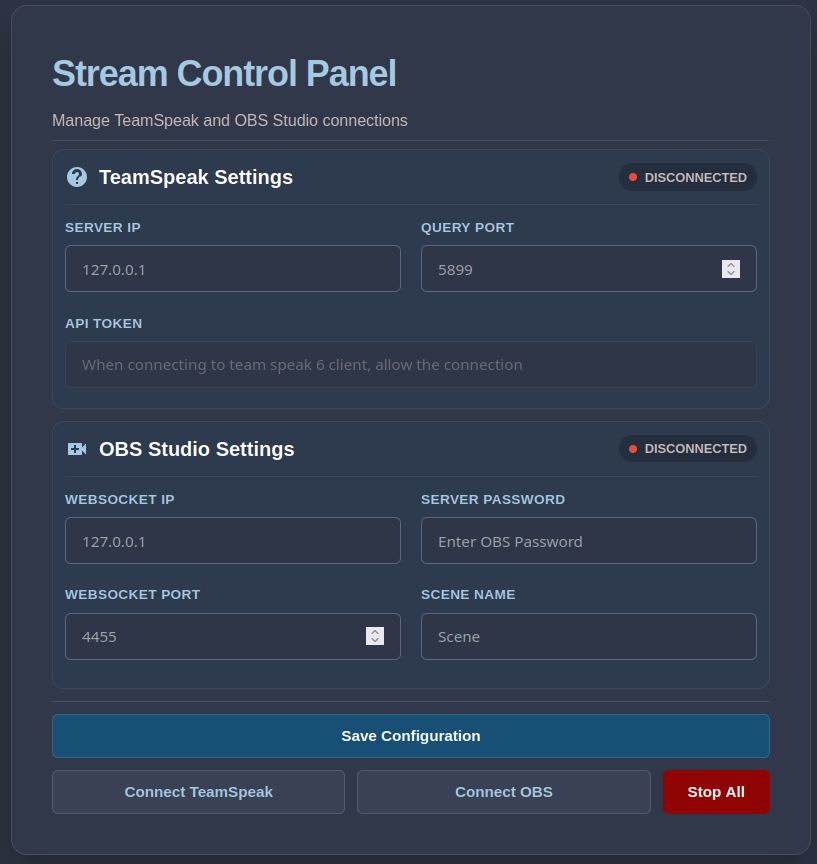
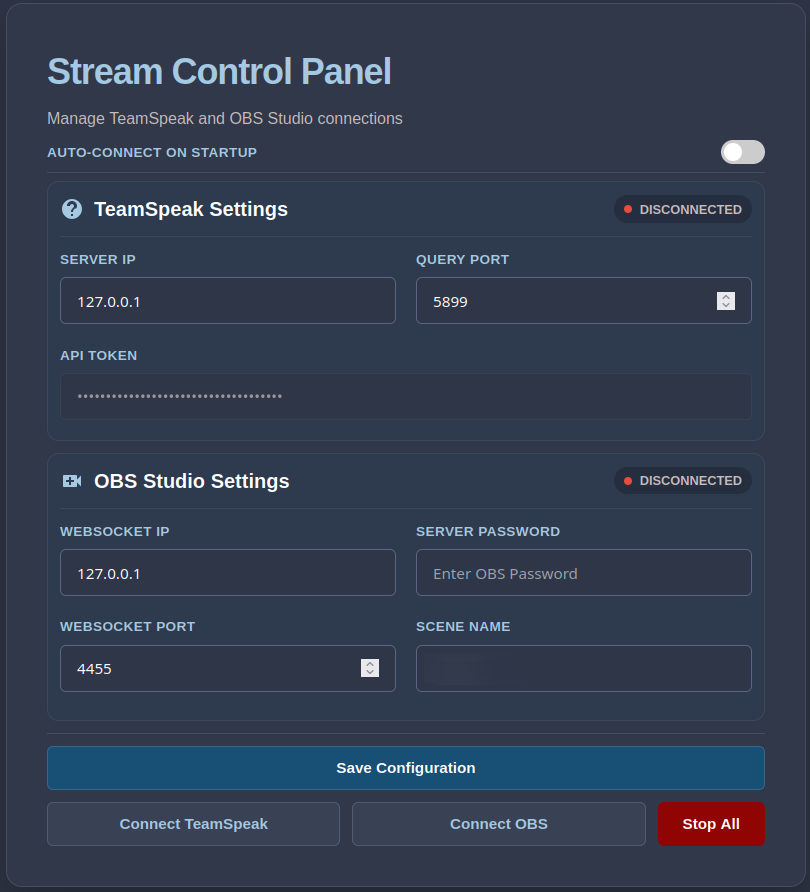
Cleaned up the readme

diff --git a/README.md b/README.md
@@ -11,6 +11,14 @@ When started, a web UI will be hosted on http://127.0.0.1:12345.
 
 If the ports and IPs are correct, you just need to fill in the password and the scene name for OBS.
 
+## Auto-connect
+With the auto-connect toggle, you can enable the autoconnection to the setup OBS and Team Speak websocket.
+When enabled, the two connect buttons will be swapped to a "connect all" button.
+
+![connect_all](resources/connect_all.png)
+
+In this mode, the application will try to reconnect every 5 seconds when a connection is dropped.
+
 ## Team Speak
 > [!CAUTION]
 > For the use, you need to connect to the server you want to use for the stream on Team Speak before connecting the application to it.
@@ -29,7 +37,7 @@ When connected you will be able to click on the "CONNECTED" marker to open a dia
 
 ## OBS
 In OBS you will need to create a scene for every user with the name `ts6-obs-[USERNAME]` Where `[USERNAME]` should be the exact username on Team Speak.
-Under this scene you should set up the following sources:
+Under this scene you can set up the following sources:
  - [muted](#muted)
  - [speaking](#speaking)
  - [quiet](#quiet)
